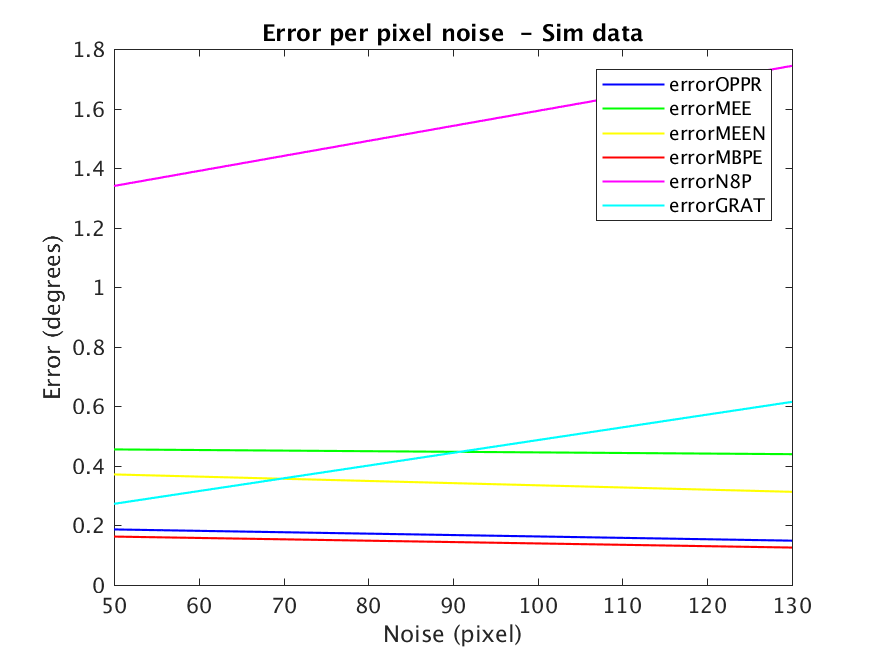
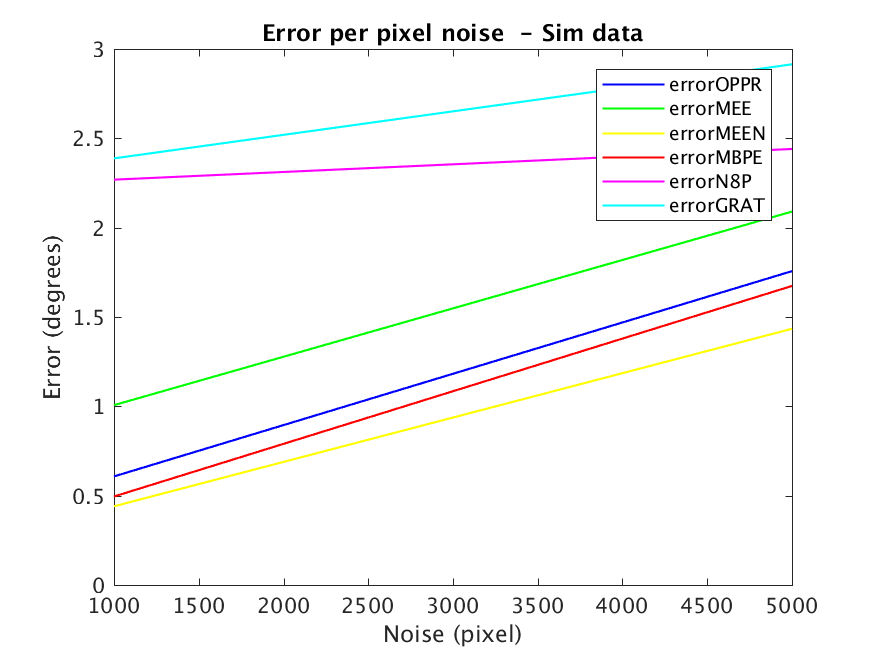
Added false matches to simulation

diff --git a/Matlab/simulator/runSimulation.m b/Matlab/simulator/runSimulation.m
@@ -1,21 +1,23 @@
-function [eR, eT] = runSimulation(angles, radius, K, nMatches, maxD, minD, B, nAngles, nPixels, imgDim, methods)
+function [plotAng, axisCount, eR, eT] = runSimulation(angles, vars)
 %runSimulation Simulate points on space and estimate transformation
 %%%%%%%%%%%%%%%%%%%%%%%%%%%%%%%%%%%%%%%%%%%
 % Input
-%   angles        Set of angles to test
-%   radius        Sphere radius
-%   K                Intrinsics matrix
-%   nMatches   Number of matches per sample
-%   maxD        Max distance to camera
-%   minD         Min distance to camera
-%   B                Baseline
-%   nAngles     Number of different angles to try
-%   nPixels      Number of pixels to deviate in noise
+%   angles               Set of angles to test
+%   radius               Sphere radius
+%   K                       Intrinsics matrix
+%   nMatches           Number of matches per sample
+%   nFalseMatches   Number of false matches per sample
+%   maxD                Max distance to camera
+%   minD                Min distance to camera
+%   B                       Baseline
+%   nAngles             Number of different angles to try
+%   nPixels             Number of pixels to deviate in noise
 % Output
-%   eR...          Error from each method
+%   eR...                 Error from each method
 %%%%%%%%%%%%%%%%%%%%%%%%%%%%%%%%%%%%%%%%%%%
 
 I = [1 0 0; 0 1 0; 0 0 1];
+axisCount = zeros(1,3);
 
 % x-1, y-2, z-3 
 for i=1:3
@@ -23,18 +25,39 @@ for i=1:3
         %% Simulate points
         R = eul2rotm(-angles(j)*[(3-i)==0 (2-i)==0 (1-i)==0]);
         T = (R-I)*B;
-        [Mw, M1, M2, m1, m2, err] = simulator(nMatches, R, T, maxD, minD, B, K, imgDim);
+        [Mw, M1, M2, m1, m2, err] = simulator(vars.nMatches, R, T, vars.maxDistToCam, vars.minDistToCam, vars.baseline, vars.intrinsics, vars.imgDim);
         if err == 1
             continue;
         end
-        [m1, m2] = noiseGen(m1, m2, nPixels);
+        [m1, m2] = falseMatchesGen(m1, m2, vars.nFalseMatches, vars.imgDim);
+        [m1, m2] = noiseGen(m1, m2, vars.nNoisePixels, vars.imgDim);
+        bestInds = ransacByProcrustes(m1, m2, vars.intrinsics, vars.projectionRadius, vars.ransac.maxErr, vars.ransac.minMatches, vars.ransac.maxMatches, vars.ransac.outlierPer);
+        m1Best = m1a(bestInds'>0,:);
+        m2Best = m2a(bestInds'>0,:);
+        if sum(bestInds'>0) <= round(vars.maxMatches*(1-vars.ransac.outlierPer))
+            continue;
+        end
+        if sum(bestInds'>0) >= vars.maxMatches
+            m1 = double(m1Best.Location(1:vars.maxMatches,:)');
+            m2 = double(m2Best.Location(1:vars.maxMatches,:)');
+        else
+            m1 = double(m1Best.Location(1:sum(bestInds'>0),:)');
+            m2 = double(m2Best.Location(1:sum(bestInds'>0),:)');
+        end
+        %figure; plot(m1(1,:), m1(2,:), 'bx'); hold on; plot(m2(1,:), m2(2,:), 'rx');
+        
+        % Save angles for plot
+        plotAng(i, j) = angles(j);
+        
         %% Estimate transformation error
-        [eRi, eTi]= estimator(m1, m2, radius, K, B, rotm2eul(R), T, methods);
+        [eRi, eTi]= estimator(m1, m2, vars.projectionRadius, K, B, rotm2eul(R), T, vars.methods);
         sizeeRi = size(eRi, 2);
         for n=1:sizeeRi
             eR(3*(n-1)+i, j) = eRi(n); 
             eT(3*(n-1)+i, j) = eTi(n); 
         end
+        
+        axisCount(i) = axisCount(i) +1;
     end  
 end
  

diff --git a/Matlab/helpers/ransacByProcrustes.m b/Matlab/helpers/ransacByProcrustes.m
@@ -1,4 +1,4 @@
-function bestInds =  ransacByProcrustes(m1, m2, K, radius, maxErr, maxIters, samplePer, enoughPer)
+function bestInds =  ransacByProcrustes(m1, m2, K, radius, maxErr, minMatches, maxMatches, outlierPer)
 %ransacByProcrustes Ransac point matches by distance
 %%%%%%%%%%%%%%%%%%%s%%%%%%%%%%%%%%%%%%%%%%
 % Filter point matches by distance through ransac
@@ -8,24 +8,22 @@ function bestInds =  ransacByProcrustes(m1, m2, K, radius, maxErr, maxIters, sam
 %   K                Intrinsics matrix
 %   maxErr       Maximum error allowed for a good model
 %   maxIters    Maximum number of iterations for ransac
-%   samplePer  Percentage of the points set to target randomly
-%   enoughPer  Percentage of the points set to accept the model
 % Output
 %   l1, l2          2D points indexes to keep
 %%%%%%%%%%%%%%%%%%%%%%%%%%%%%%%%%%%%%%%%%
 
 i = 0;
-nRand = round(size(m1,2)*samplePer);
-enough = round(size(m1,2)*enoughPer);
 bestScore = 0;
 
 M1 = projectToSphere(K, double(m1), radius);
 M2 = projectToSphere(K, double(m2), radius);
+goodMatches = round(maxMatches*(1-outlierPer));
+maxIters        = round(log(1-0.99)/(log(1-(1-outlierPer)^(minMatches)))); 
 
 bestR = findModel(M1, M2);
 
 while i < maxIters
-     firstInds = randi(size(M1,2), 1, nRand);
+     firstInds = randi(size(M1,2), 1, minMatches);
      maybeInliers1 = M1(:, firstInds);
      maybeInliers2 = M2(:, firstInds);
      R = findModel(maybeInliers1, maybeInliers2);
@@ -36,7 +34,7 @@ while i < maxIters
      restInds =  testModel(rest1, rest2, maxErr, R);
      alsoInliers1 = M1(:, restInds>0);
      alsoInliers2 = M2(:, restInds>0);
-     if size(alsoInliers1,2) >= enough
+     if size(alsoInliers1,2) >= goodMatches
          allInliers1 = [maybeInliers1 alsoInliers1];
          allInliers2 = [maybeInliers2 alsoInliers2];
          modelScore = sum(testModel(allInliers1, allInliers2, maxErr, R));
@@ -69,3 +67,4 @@ function ind = testModel(M1, M2, maxErr, R)
     ind(abs(err) < maxErr) = 1;
 
 end
+

diff --git a/Matlab/simulator/noiseGen.m b/Matlab/simulator/noiseGen.m
@@ -1,4 +1,4 @@
-function [mn1, mn2] = noiseGen(m1, m2, nPixels)
+function [mn1, mn2] = noiseGen(m1, m2, nPixels, imgDim)
 %noiseGen Pixel Noise Generation
 %%%%%%%%%%%%%%%%%%%%%%%%%%%%%%%%%%%%%%%%%
 % Generate noise in pixel images
@@ -7,6 +7,7 @@ function [mn1, mn2] = noiseGen(m1, m2, nPixels)
 %              transformation
 %   nMatches   Number of point matches
 %   nPixels    Number of pixels to deviate 
+%   imgDim   Image dimensions
 % Output
 %   mn1,mn2    2D points before and after
 %              transformation with noise
@@ -16,10 +17,29 @@ pd = makedist('normal', 0, nPixels/3);
 nMatches = size(m1, 2);
 
 for i=1:nMatches
-    mn1(1, i) = m1(1, i) + pd.random;
-    mn1(2, i) = m1(2, i) + pd.random;
-    mn2(1, i) = m2(1, i) + pd.random;
-    mn2(2, i) = m2(2, i) + pd.random;
+    
+    rand = pd.random;
+    
+    while( ~( (m1(1, i) + rand < imgDim(1)) && (m1(1, i) + rand > 0) ) )
+        rand = pd.random;
+    end
+     mn1(1, i) = m1(1, i) + rand;
+     
+    while( ~( (m1(2, i) + rand < imgDim(2)) && (m1(2, i) + rand > 0) ) )
+       rand = pd.random;
+    end
+    mn1(2, i) = m1(2, i) + rand;
+    
+    while( ~( (m2(1, i) + rand < imgDim(1)) && (m2(1, i) + rand > 0) ) )
+        rand = pd.random;
+    end
+    mn2(1, i) = m2(1, i) + rand;
+    
+    while( ~( (m2(2, i) + rand < imgDim(2)) && (m2(2, i) + rand > 0) ) )
+        rand = pd.random;
+    end
+    mn2(2, i) = m2(2, i) + rand;
+    
 end
 
 end

diff --git a/Matlab/simulator/falseMatchesGen.m b/Matlab/simulator/falseMatchesGen.m
@@ -1,0 +1,32 @@
+function [mn1, mn2] = falseMatchesGen(m1, m2, nFalseMatches, imgDim)
+%falseMatches False Matches Generation
+%%%%%%%%%%%%%%%%%%%%%%%%%%%%%%%%%%%%%%%%%
+% Generate false matches in simulated data
+% Input
+%   m1,m2               2D points before and after
+%                               transformation
+%   nFalseMatches   Number of false point matches
+%   imgDim              Image Dimensions 
+% Output
+%   mn1,mn2             2D points before and after
+%                               transformation with false matches
+%%%%%%%%%%%%%%%%%%%%%%%%%%%%%%%%%%%%%%%%%
+
+nMatches = size(m1, 2);
+which = round(nMatches.*rand(nFalseMatches, 1));
+randx = round(imgDim(1).* rand(nFalseMatches,1));
+randy = round(imgDim(2).* rand(nFalseMatches,1));
+mn1 = m1;
+mn2 = m2;
+
+for i=1:nFalseMatches
+    if rand() < 0.5
+        mn1(1, which(i)) = randx(i);
+        mn1(2, which(i)) = randy(i);
+    else
+        mn2(1, which(i)) = randx(i);
+        mn2(2, which(i)) = randy(i);
+    end  
+end
+
+end

diff --git a/Matlab/simulator/simulator.m b/Matlab/simulator/simulator.m
@@ -35,8 +35,8 @@ for i=1:trials*nMatches
         Mw(:, sz) = Mwi;
         M1(:, sz) = M1i;
         M2(:, sz) = M2i;
-        m1(:, sz) = m1i;
-        m2(:, sz) = m2i;
+        m1(:, sz) = round(m1i);
+        m2(:, sz) = round(m2i);
         if sz == nMatches
             break;
         end

diff --git a/Matlab/simulator/generateAngles.m b/Matlab/simulator/generateAngles.m
@@ -8,7 +8,7 @@ function angles = generateAngles(nAngles, sigma)
 %   angles   Generated angles
 %%%%%%%%%%%%%%%%%%%%%%%%%%%%%%%%%%%%%%%%%
 
-pd = makedist('Uniform','Lower', -45, 'Upper', 45);
+pd = makedist('Uniform','Lower', -sigma, 'Upper', sigma);
 
 ang = zeros(1,nAngles);
 for i=1:nAngles
